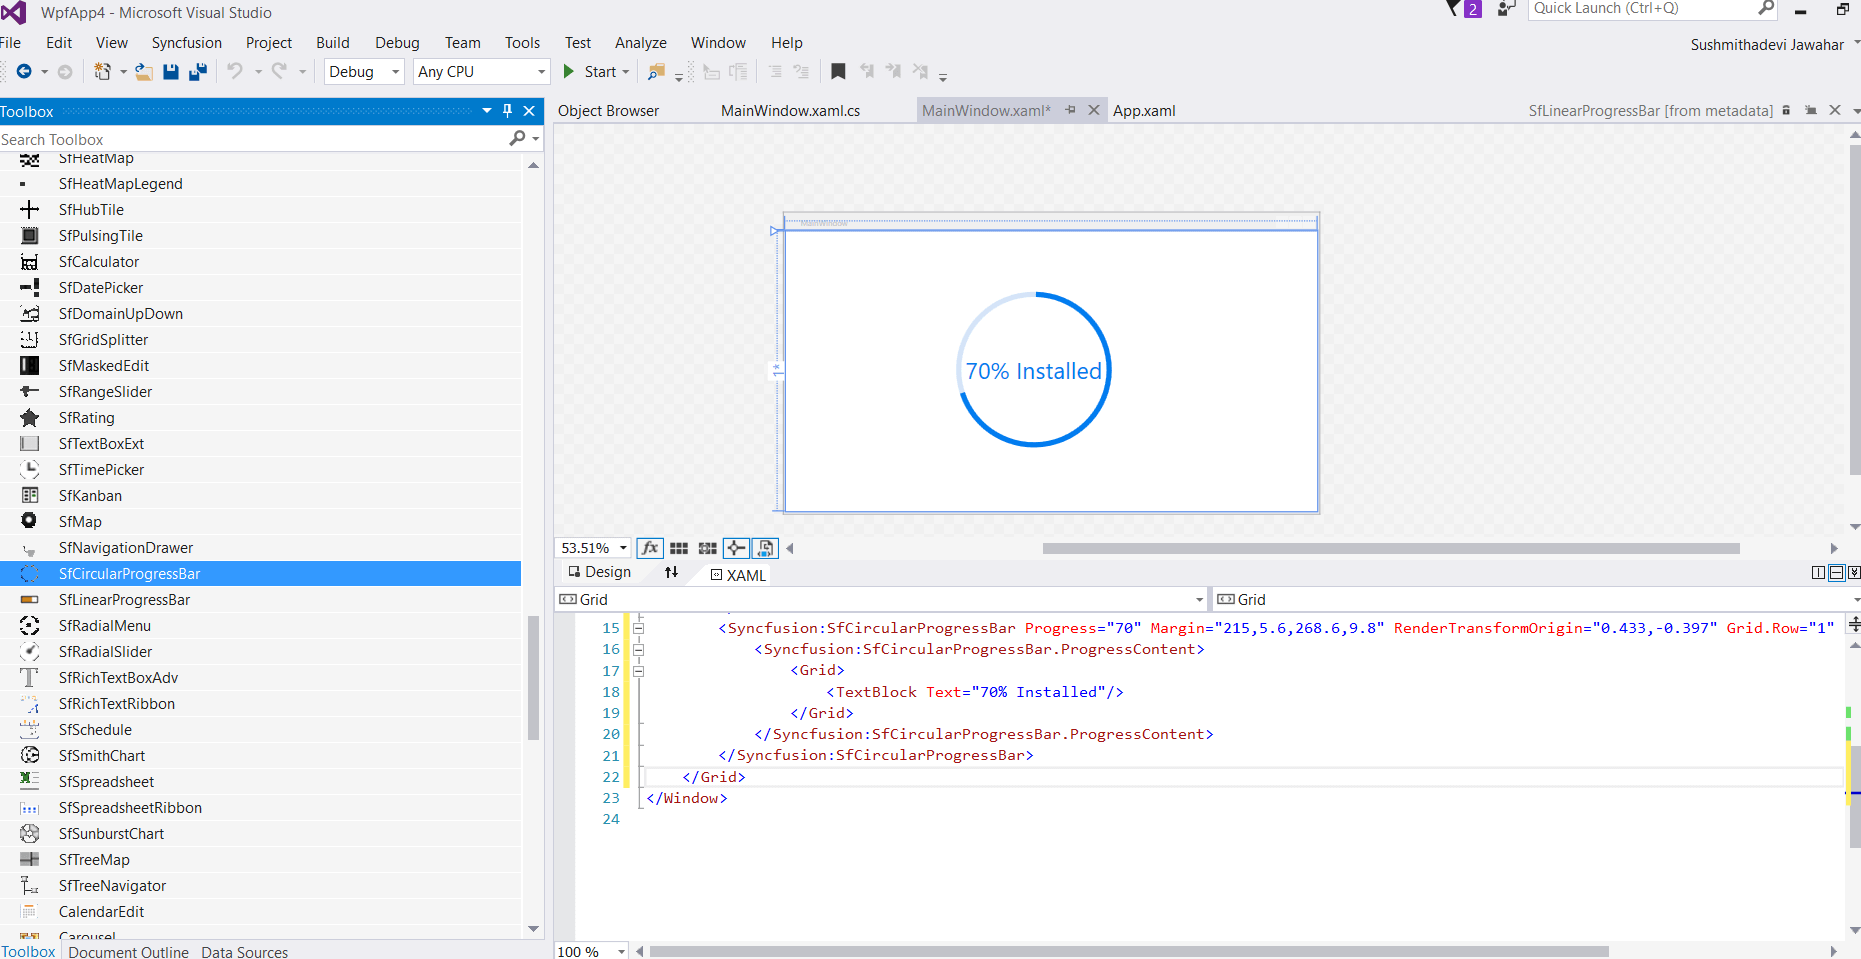
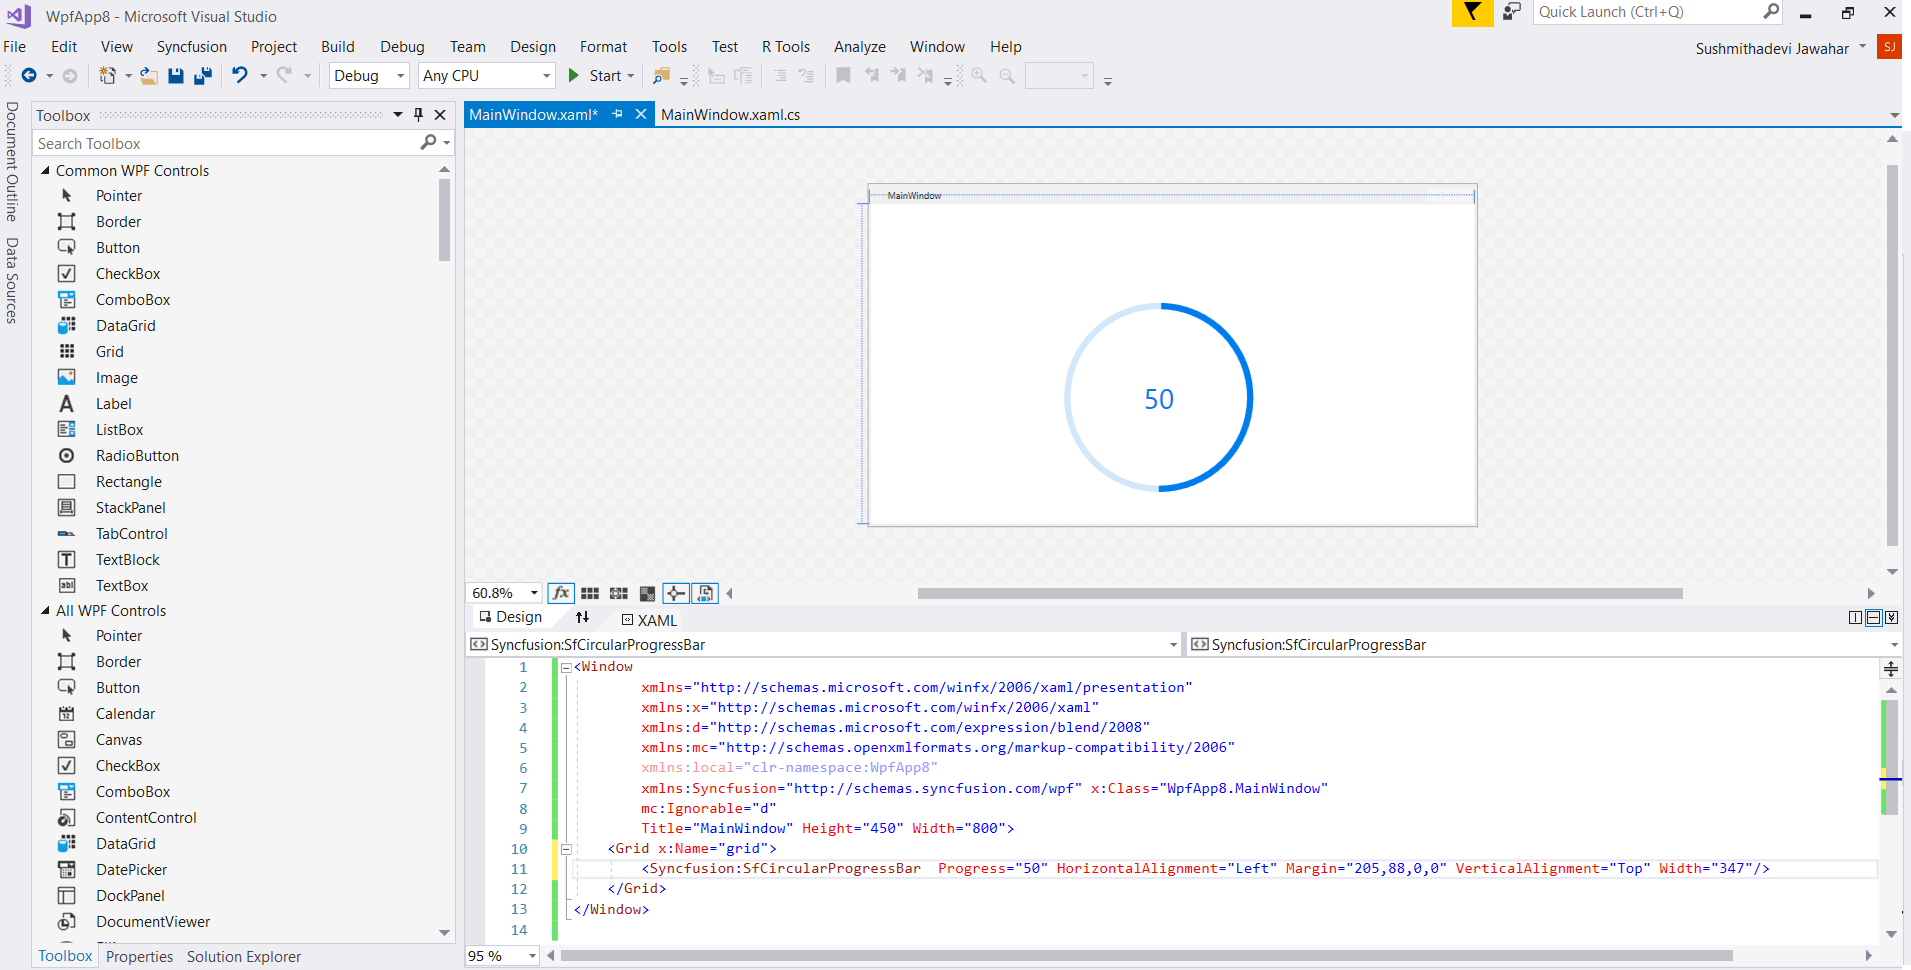
Documentation for SfProgressBar

diff --git a/wpf/Circular-ProgressBar/Getting-Started.md b/wpf/Circular-ProgressBar/Getting-Started.md
@@ -1,7 +1,7 @@
 ---
 layout: post
-title: Getting Started | Circular ProgressBar | WPF | Syncfusion
-description: How to create a simple application with Circular ProgressBar in WPF.
+title: Getting started with WPF Circular ProgressBar control | Syncfusion
+description:  Learn here about getting started with Syncfusion WPF Circular ProgressBar control and more details.
 platform: WPF
 control: SfCircularProgressBar
 documentation: ug
@@ -45,18 +45,9 @@ To add control manually in XAML, follow the given steps:
         xmlns:Syncfusion="http://schemas.syncfusion.com/wpf" x:Class="WpfApp4.MainWindow"
         mc:Ignorable="d"
         Title="MainWindow" Height="450" Width="800">
-     <Grid x:Name="grid">
-        <Grid.RowDefinitions  >
-            <RowDefinition Height="67*"/>
-            <RowDefinition Height="143*"/>
-        </Grid.RowDefinitions><TextBlock Text="Circular"    Margin="344,5.6,384.6,280.8" Grid.Row="1"/>
-        <Syncfusion:SfCircularProgressBar Progress="70" Margin="215,5.6,268.6,9.8" RenderTransformOrigin="0.433,-0.397" Grid.Row="1" >
-            <Syncfusion:SfCircularProgressBar.ProgressContent>
-                <Grid>
-                    <TextBlock Text="70% Installed"/>
-                </Grid>
-            </Syncfusion:SfCircularProgressBar.ProgressContent>
-        </Syncfusion:SfCircularProgressBar>
+     <Grid x:Name="grid">       
+       <Syncfusion:SfCircularProgressBar  Progress="50" HorizontalAlignment="Left" Margin="205,88,0,0" VerticalAlignment="Top" Width="347"/>
+      </Syncfusion:SfCircularProgressBar>
         </Grid>
 </Window>
 {% endhighlight %}
@@ -86,8 +77,7 @@ namespace SfProgressBar
             InitializeComponent();      
                 
             SfCircularProgressBar circular = new SfCircularProgressBar();
-            circular.Progress = 70;
-            circular.ProgressContent = "70 % Installed";
+            circular.Progress = 50;  
             grid.Children.Add(circular);
 
         }      

diff --git a/wpf/Circular-ProgressBar/Overview.md b/wpf/Circular-ProgressBar/Overview.md
@@ -1,7 +1,7 @@
 ---
 layout: post
-title: Overview | Circular ProgressBar | WPF | Syncfusion
-description: WPF Circular ProgressBar helps to show the work progress in circular manner while user is waiting.
+title: About WPF Circular ProgressBar control | Syncfusion
+description: Learn about introduction of Syncfusion WPF Circular ProgressBar control, its feature and more details.
 platform: WPF
 control: SfCircularProgressBar
 documentation: ug

diff --git a/wpf/Linear-ProgressBar/Getting-Started.md b/wpf/Linear-ProgressBar/Getting-Started.md
@@ -1,7 +1,7 @@
 ---
 layout: post
-title: Getting Started | Linear ProgressBar | WPF | Syncfusion
-description: How to create a simple application with Linear ProgressBar in WPF.
+title: Getting started with WPF  Linear ProgressBar control | Syncfusion
+description: Learn here about getting started with Syncfusion WPF Linear ProgressBar control and more details.
 platform: WPF
 control: SfLinearProgressBar
 documentation: ug

diff --git a/wpf/Linear-ProgressBar/Overview.md b/wpf/Linear-ProgressBar/Overview.md
@@ -1,7 +1,7 @@
 ---
 layout: post
-title: Overview | Linear ProgressBar | WPF | Syncfusion
-description: WPF Linear ProgressBar helps to display the work progress while user is waiting.
+title: About WPF Linear ProgressBar control  | Syncfusion
+description: Learn about introduction of Syncfusion WPF Linear ProgressBar control, its feature and more details.
 platform: WPF
 control: SfLinearProgressBar
 documentation: ug
